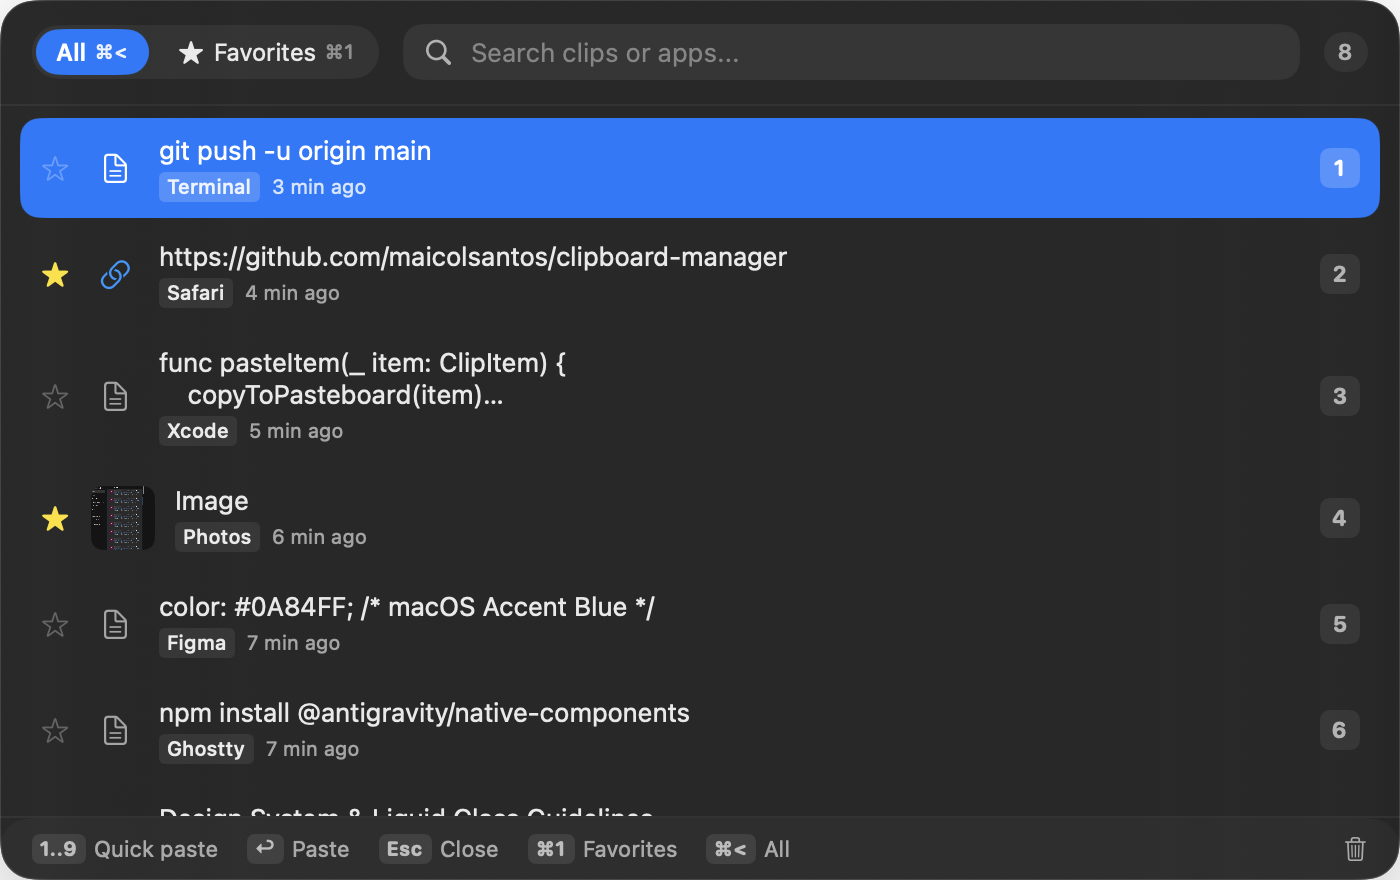
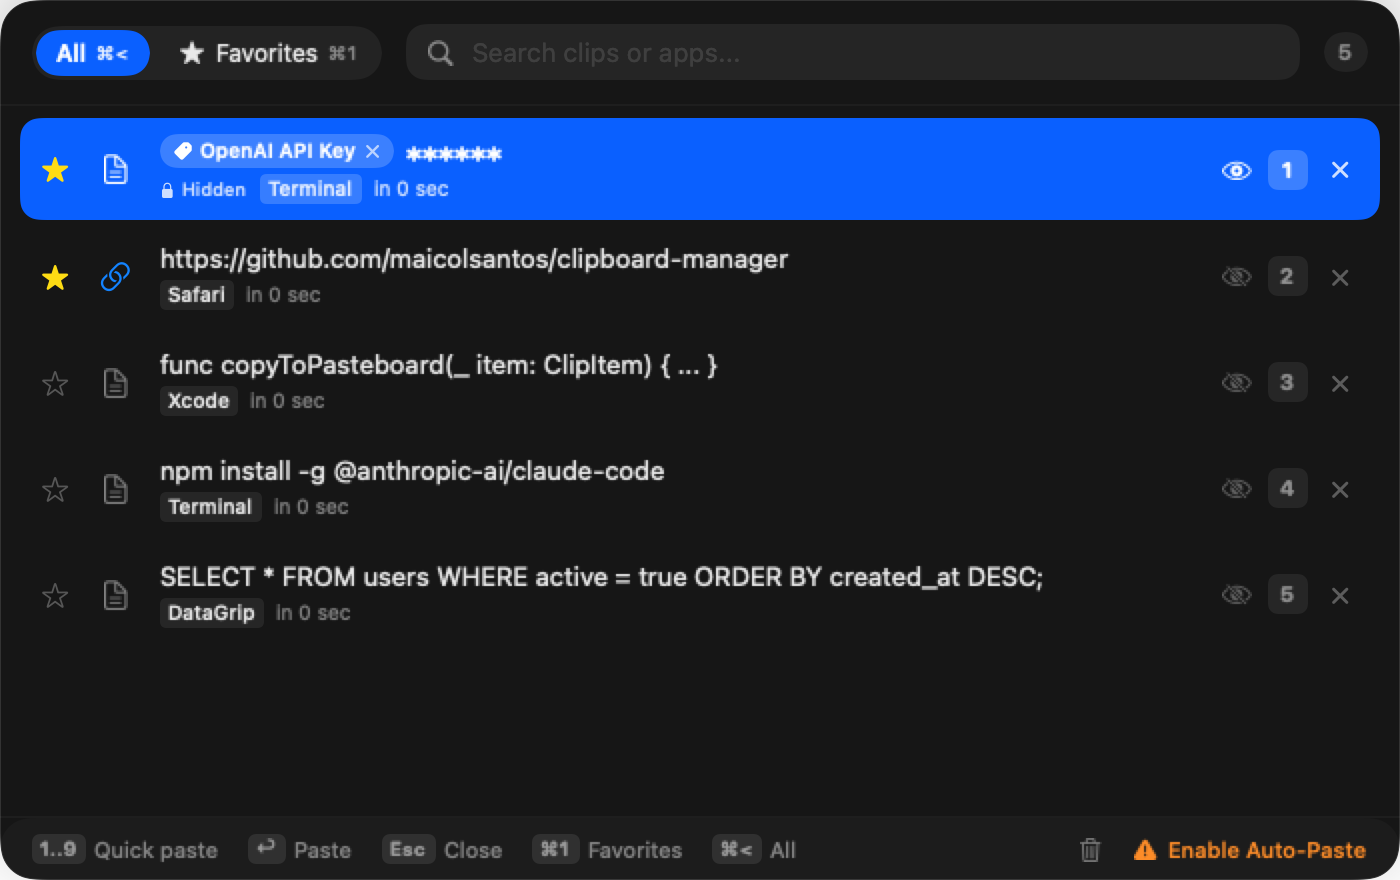
Add quick delete button after number, update screenshot and README

diff --git a/Sources/Clips/SelfTest.swift b/Sources/Clips/SelfTest.swift
@@ -1,5 +1,6 @@
 import AppKit
 import SwiftData
+import SwiftUI
 import ClipsKit
 
 /// Self-test for agents: runs the app's real functions on a test store,
@@ -9,12 +10,17 @@ import ClipsKit
 @MainActor
 enum SelfTest {
     static var requested: Bool { CommandLine.arguments.contains("--selftest") }
+    static var previewRequested: Bool { CommandLine.arguments.contains("--render-preview") }
     /// Read by AppDelegate.applicationWillTerminate.
     static var exitCode: Int32 = 0
     private static var failures = 0
     private static var count = 0
 
     static func runIfRequested(model: AppModel) {
+        if previewRequested {
+            renderPreview()
+            return
+        }
         guard requested else { return }
         setvbuf(stdout, nil, _IOLBF, 0)
         guard Store.isOverridden else {
@@ -132,6 +138,61 @@ enum SelfTest {
         count += 1
         if !ok { failures += 1 }
         print(ok ? "PASS \(name)" : "FAIL \(name)\(detail.isEmpty ? "" : ": \(detail)")")
+    }
+
+    static func renderPreview() {
+        let history = ClipboardHistory.shared
+        history.items = [
+            ClipItem(
+                kind: .text,
+                textContent: "sk-proj-78a9c3b889a741f238b901",
+                isFavorite: true,
+                sourceAppName: "Terminal",
+                isMasked: true,
+                customLabel: "OpenAI API Key"
+            ),
+            ClipItem(
+                kind: .url,
+                textContent: "https://github.com/maicolsantos/clipboard-manager",
+                isFavorite: true,
+                sourceAppName: "Safari"
+            ),
+            ClipItem(
+                kind: .text,
+                textContent: "func copyToPasteboard(_ item: ClipItem) { ... }",
+                isFavorite: false,
+                sourceAppName: "Xcode"
+            ),
+            ClipItem(
+                kind: .text,
+                textContent: "npm install -g @anthropic-ai/claude-code",
+                isFavorite: false,
+                sourceAppName: "Terminal"
+            ),
+            ClipItem(
+                kind: .text,
+                textContent: "SELECT * FROM users WHERE active = true ORDER BY created_at DESC;",
+                isFavorite: false,
+                sourceAppName: "DataGrip"
+            )
+        ]
+        history.selectFirstItem()
+
+        let view = NSHostingView(rootView: ClipsView().themed())
+        view.frame = NSRect(x: 0, y: 0, width: 700, height: 440)
+        view.layoutSubtreeIfNeeded()
+
+        if let rep = view.bitmapImageRepForCachingDisplay(in: view.bounds) {
+            view.cacheDisplay(in: view.bounds, to: rep)
+            if let data = rep.representation(using: NSBitmapImageRep.FileType.png, properties: [:]) {
+                let path1 = "/Users/maicolsantos/Documents/MAICOL/bama-clipboard/Clips/docs/assets/preview.png"
+                let path2 = "/Users/maicolsantos/Documents/MAICOL/bama-clipboard/docs/assets/preview.png"
+                try? data.write(to: URL(fileURLWithPath: path1))
+                try? data.write(to: URL(fileURLWithPath: path2))
+                print("PREVIEW RENDERED to \(path1)")
+            }
+        }
+        finish(code: 0)
     }
 
     static func finish(code: Int32) {

diff --git a/Sources/Clips/ClipsView.swift b/Sources/Clips/ClipsView.swift
@@ -558,6 +558,17 @@ struct ClipRowView: View {
                                 .fill(isSelected ? Color.white.opacity(0.2) : Color.primary.opacity(0.08))
                         )
                 }
+
+                // Quick Delete ("x") Button - right after the number
+                Button(action: onDelete) {
+                    Image(systemName: "xmark")
+                        .font(.system(size: 10, weight: .bold))
+                        .foregroundStyle(isSelected ? Palette.onAccent.opacity(0.8) : Color.secondary.opacity(0.55))
+                        .frame(width: 20, height: 20)
+                        .contentShape(Rectangle())
+                }
+                .buttonStyle(.plain)
+                .help(L10n.tr(.deleteClip))
             }
         }
         .padding(.horizontal, 10)

diff --git a/README.md b/README.md
@@ -15,23 +15,37 @@ A lightweight, blazing-fast, native macOS clipboard manager built with **SwiftUI
   - Press `1` through `9` on opening to immediately paste the corresponding clip into your previous active app.
   - Navigate with arrow keys (`↑` / `↓`) and press `Enter` (`↩`) to paste immediately.
   - Single-click any clip in the list to paste it instantly.
+- **🔒 Mask & Hide Sensitive Content (`******`)**:
+  - Click the eye icon next to the number badge to hide sensitive values (passwords, tokens, API keys) as `******`.
+  - Add custom labels/tags (e.g. `[🏷 OpenAI API Key]`) to easily recognize clips without revealing secret contents.
+  - Click the eye icon or click `******` to reveal the plain text on demand.
+  - Quick 1-click label removal directly via the `✕` on the badge, in the modal, or from the right-click menu.
+  - Selecting/pasting a masked clip still pastes the actual underlying secret into your target app.
+- **🗑 Quick Removal (`✕`)**:
+  - Click the `✕` icon placed directly after the numerical badge on any row for instant removal.
 - **⭐ Favorites (`⌘1` / `⌘<`)**:
   - Star clips to keep important snippets handy.
   - Press `⌘1` to jump directly to **Favorites**.
   - Press `⌘<` to jump back to **All clips**.
   - Starred clips are never automatically pruned.
-- **🔍 Instant Filter & Search**: Type anytime to instantly filter clips by text content or source application.
+- **🔍 Instant Filter & Search**: Type anytime to instantly filter clips by text content, source application, or custom label.
+- **🌐 Multi-Language (i18n)**:
+  - English (`en`, default)
+  - Português (Brasil) (`pt-BR`)
+  - Português (Portugal) (`pt-PT`)
+  - Español (`es`)
+  - Switch language on the fly in **Settings > General**.
 - **🛡 Privacy & Password Manager Aware**:
   - Runs completely offline with no servers, trackers, or cloud sync.
-  - Automatically filters out sensitive items copied from password managers (1Password, Bitwarden, KeePass, `org.nspasteboard.ConcealedType`).
+  - Automatically filters out sensitive items copied from password managers (1Password, Bitwarden, KeePassXC, LastPass, Apple Keychain, `org.nspasteboard.ConcealedType`).
 - **⚙ Configurable History Limit**: Keeps 100 items by default, configurable in **Settings > General** (25, 50, 100, 200, 500, or 1000 items).
 - **🖱 Smooth Dismissal**: Press `Esc` or click anywhere outside the window to dismiss it immediately.
 
 ---
 
-## ⌨ Keyboard Shortcuts
+## ⌨ Keyboard Shortcuts & Actions
 
-| Shortcut | Action |
+| Shortcut / Control | Action |
 | :--- | :--- |
 | `⌘⇧V` (`Cmd + Shift + V`) | **Open / Toggle Clips** (Global hotkey) |
 | `1` .. `9` | **Quick paste** item 1 through 9 directly into target app |
@@ -42,6 +56,9 @@ A lightweight, blazing-fast, native macOS clipboard manager built with **SwiftUI
 | `Esc` | **Close** clipboard panel |
 | `⌘,` | Open **Settings** window |
 | `Click outside` | Dismiss window |
+| `Eye icon` (next to number) | **Hide / Reveal** clip content (`******`) |
+| `✕ icon` (after number) | **Quick Delete** clip from history |
+| `[🏷 label ✕]` | Click label to edit, or click `✕` to remove label |
 
 ---
 
@@ -70,7 +87,7 @@ cd clipboard-manager
 ./build.sh --open
 ```
 
-### 2. Run Self-Tests & Unit Tests
+### 2. Run Self-Tests & Quality Verification
 
 ```bash
 # Run unit tests
@@ -78,6 +95,9 @@ swift test
 
 # Run real system function checks on isolated /tmp store
 ./tools/selftest.sh
+
+# Run comprehensive Swift Quality & Security pre-commit review
+./tools/pre-commit-review.sh
 ```
 
 ---
@@ -87,9 +107,11 @@ swift test
 - **`App.swift`**: Menu Bar Extra life-cycle, status bar menu, and Settings window scene.
 - **`FloatingPanelController.swift`**: Manages the custom `ClipboardFloatingPanel` (`NSPanel`), key event routing, global click-outside detection, and `.popUpMenu` window elevation.
 - **`HotkeyCenter.swift`**: Carbon `RegisterEventHotKey` integration for global `⌘⇧V`.
-- **`ClipboardHistory.swift`**: Pasteboard monitoring (`NSPasteboard`), content hashing, deduplication, item limits, and target app reactivation.
-- **`ClipsView.swift`**: SwiftUI interface with vibrancy, keyboard navigation, and instant paste gestures.
+- **`ClipboardHistory.swift`**: Pasteboard monitoring (`NSPasteboard`), content hashing, deduplication, item limits, masking, and target app reactivation.
+- **`ClipsView.swift`**: SwiftUI interface with vibrancy, keyboard navigation, masked rows, and instant paste gestures.
 - **`SyntheticPaste.swift`**: Low-level `CGEvent` synthesis for seamless pasteboard injection into active applications.
+- **`PasteboardFilter.swift`**: Comprehensive exclusion engine for password managers and concealed/transient types.
+- **`L10n.swift`**: Lightweight runtime internationalization supporting English, Portuguese (BR/PT), and Spanish.
 
 ---
 
